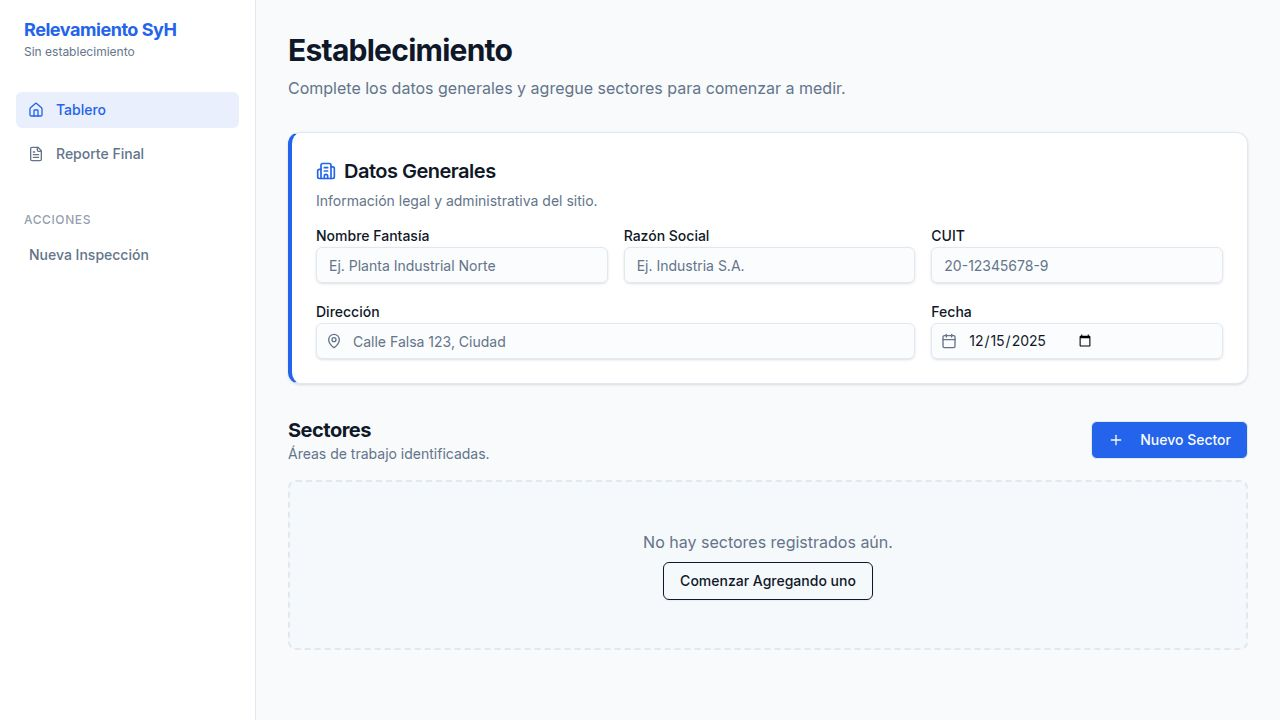
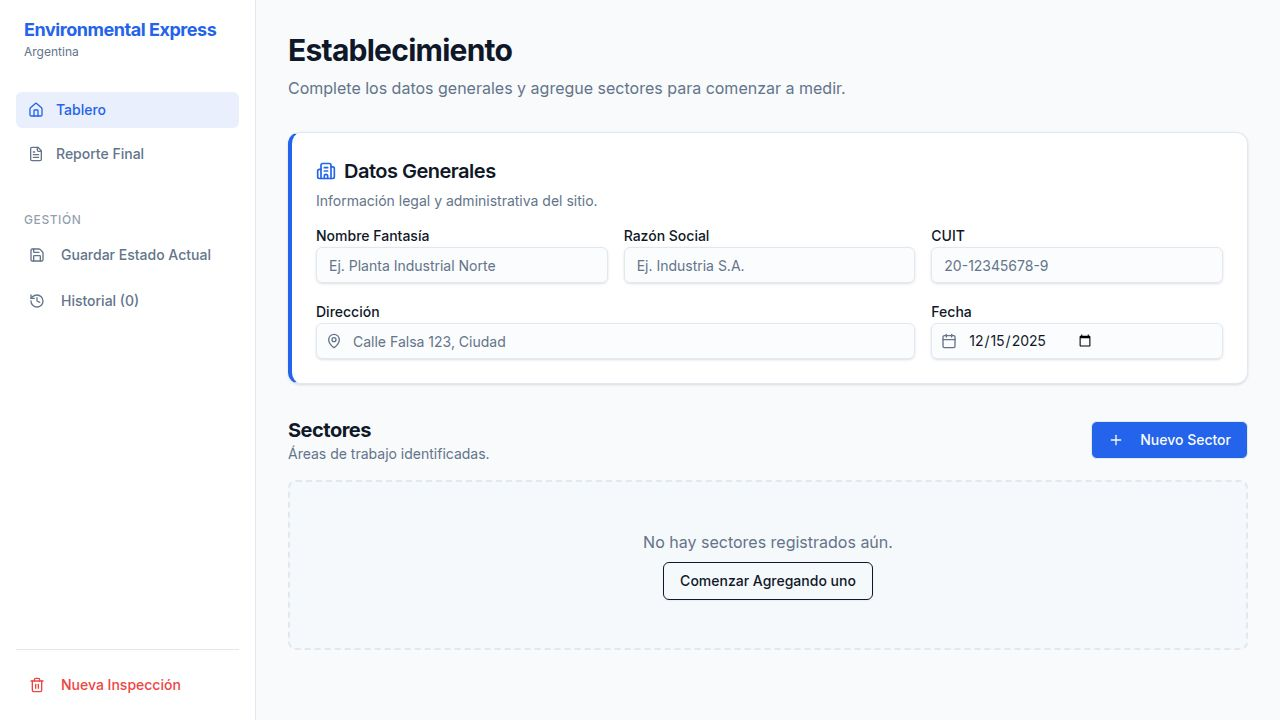
Add functionality to save and load inspection history
Implement persistent storage for inspection data, allowing users to save current states, view historical versions, and restore previous inspections.

Replit-Commit-Author: Agent
Replit-Commit-Session-Id: 186251c5-2431-4825-ab21-660a759b7519
Replit-Commit-Checkpoint-Type: full_checkpoint
Replit-Commit-Event-Id: 81cfa146-f180-4b89-8171-7165e6dcef59
Replit-Commit-Screenshot-Url: https://storage.googleapis.com/screenshot-production-us-central1/a204020a-6f89-41d9-a4e3-866004e7eeac/186251c5-2431-4825-ab21-660a759b7519/CUZe8lA
Replit-Helium-Checkpoint-Created: true

diff --git a/client/src/components/layout.tsx b/client/src/components/layout.tsx
@@ -1,17 +1,48 @@
 import { Link, useLocation } from "wouter";
-import { ClipboardList, Home, FileText, Menu, ChevronRight } from "lucide-react";
+import { ClipboardList, Home, FileText, Menu, ChevronRight, Save, History, Trash2, RotateCcw } from "lucide-react";
 import { Button } from "@/components/ui/button";
 import { Sheet, SheetContent, SheetTrigger } from "@/components/ui/sheet";
+import { Dialog, DialogContent, DialogHeader, DialogTitle, DialogTrigger, DialogDescription } from "@/components/ui/dialog";
+import { ScrollArea } from "@/components/ui/scroll-area";
 import { useState } from "react";
 import { useStore } from "@/lib/store";
+import { format } from "date-fns";
+import { es } from "date-fns/locale";
+import { useToast } from "@/hooks/use-toast";
 
 export function Layout({ children }: { children: React.ReactNode }) {
   const [location] = useLocation();
   const establishment = useStore((state) => state.establishment);
+  const history = useStore((state) => state.history);
+  const saveInspection = useStore((state) => state.saveInspection);
+  const loadInspection = useStore((state) => state.loadInspection);
+  const deleteInspection = useStore((state) => state.deleteInspection);
+  
   const [open, setOpen] = useState(false);
+  const [historyOpen, setHistoryOpen] = useState(false);
+  const { toast } = useToast();
+
+  const handleSave = () => {
+    saveInspection();
+    toast({
+      title: "Inspección Guardada",
+      description: "Se ha guardado una copia en el historial local.",
+    });
+  };
+
+  const handleLoad = (id: string) => {
+    if (confirm("¿Cargar esta inspección reemplazará los datos actuales. ¿Continuar?")) {
+      loadInspection(id);
+      setHistoryOpen(false);
+      toast({
+        title: "Inspección Cargada",
+        description: "Los datos históricos han sido restaurados.",
+      });
+    }
+  };
 
   const NavContent = () => (
-    <nav className="flex flex-col gap-2 p-4">
+    <nav className="flex flex-col gap-2 p-4 h-full">
       <div className="mb-6 px-2">
         <h2 className="text-lg font-bold tracking-tight text-primary">Environmental Express</h2>
         <p className="text-xs text-muted-foreground truncate">
@@ -34,16 +65,73 @@ export function Layout({ children }: { children: React.ReactNode }) {
       </Link>
 
       <div className="mt-8 px-2 text-xs font-medium text-muted-foreground/70 uppercase tracking-wider">
-        Acciones
+        Gestión
       </div>
-      <Button variant="ghost" className="justify-start px-3 text-muted-foreground" onClick={() => {
-        if(confirm('¿Borrar todos los datos y empezar de cero?')) {
-          useStore.getState().resetStore();
-          setOpen(false);
-        }
-      }}>
-        Nueva Inspección
+
+      <Button variant="ghost" className="justify-start px-3 text-muted-foreground hover:text-primary" onClick={handleSave}>
+        <Save className="mr-2 h-4 w-4" />
+        Guardar Estado Actual
       </Button>
+
+      <Dialog open={historyOpen} onOpenChange={setHistoryOpen}>
+        <DialogTrigger asChild>
+          <Button variant="ghost" className="justify-start px-3 text-muted-foreground hover:text-primary">
+            <History className="mr-2 h-4 w-4" />
+            Historial ({history.length})
+          </Button>
+        </DialogTrigger>
+        <DialogContent className="max-w-md">
+          <DialogHeader>
+            <DialogTitle>Historial de Inspecciones</DialogTitle>
+            <DialogDescription>
+              Versiones guardadas anteriormente. Cargar una versión reemplazará los datos actuales.
+            </DialogDescription>
+          </DialogHeader>
+          <ScrollArea className="h-[300px] pr-4">
+            <div className="space-y-4">
+              {history.length === 0 ? (
+                <p className="text-center text-sm text-muted-foreground py-8">No hay inspecciones guardadas.</p>
+              ) : (
+                history.map((item) => (
+                  <div key={item.id} className="flex items-center justify-between p-3 border rounded-lg bg-muted/20">
+                    <div className="space-y-1">
+                      <p className="font-medium text-sm">
+                        {item.establishment.name || "Sin nombre"}
+                      </p>
+                      <p className="text-xs text-muted-foreground">
+                        {format(new Date(item.savedAt), "d 'de' MMMM, yyyy - HH:mm", { locale: es })}
+                      </p>
+                      <p className="text-xs text-muted-foreground">
+                        {item.sectors.length} sectores
+                      </p>
+                    </div>
+                    <div className="flex items-center gap-1">
+                      <Button size="icon" variant="ghost" className="h-8 w-8 text-blue-600 hover:text-blue-700 hover:bg-blue-50" onClick={() => handleLoad(item.id)} title="Cargar">
+                        <RotateCcw className="h-4 w-4" />
+                      </Button>
+                      <Button size="icon" variant="ghost" className="h-8 w-8 text-red-500 hover:text-red-700 hover:bg-red-50" onClick={() => deleteInspection(item.id)} title="Eliminar">
+                        <Trash2 className="h-4 w-4" />
+                      </Button>
+                    </div>
+                  </div>
+                ))
+              )}
+            </div>
+          </ScrollArea>
+        </DialogContent>
+      </Dialog>
+
+      <div className="mt-auto pt-4 border-t">
+         <Button variant="ghost" className="w-full justify-start px-3 text-destructive hover:text-destructive hover:bg-destructive/10" onClick={() => {
+          if(confirm('¿Borrar todos los datos actuales y empezar de cero?')) {
+            useStore.getState().resetStore();
+            setOpen(false);
+          }
+        }}>
+          <Trash2 className="mr-2 h-4 w-4" />
+          Nueva Inspección
+        </Button>
+      </div>
     </nav>
   );
 
@@ -53,7 +141,7 @@ export function Layout({ children }: { children: React.ReactNode }) {
       <div className="md:hidden flex items-center justify-between p-4 border-b bg-card sticky top-0 z-50 print:hidden">
         <div className="flex items-center gap-2">
            <div className="h-8 w-8 rounded bg-primary flex items-center justify-center text-primary-foreground font-bold">
-             SyH
+             EE
            </div>
            <span className="font-semibold text-sm truncate max-w-[200px]">
              {establishment.name || "Nueva Inspección"}

diff --git a/client/src/lib/store.ts b/client/src/lib/store.ts
@@ -1,11 +1,12 @@
 import { create } from 'zustand';
 import { persist, createJSONStorage } from 'zustand/middleware';
-import { Establishment, Sector, Measurement, MeasurementPoint, MeasurementType } from './types';
+import { Establishment, Sector, Measurement, MeasurementPoint, MeasurementType, Inspection } from './types';
 import { v4 as uuidv4 } from 'uuid';
 
 interface AppState {
   establishment: Establishment;
   sectors: Sector[];
+  history: Inspection[];
   
   // Actions
   updateEstablishment: (data: Partial<Establishment>) => void;
@@ -21,6 +22,10 @@ interface AppState {
   addPoint: (sectorId: string, measurementId: string, pointData?: Partial<MeasurementPoint>) => void;
   updatePoint: (sectorId: string, measurementId: string, pointId: string, data: Partial<MeasurementPoint>) => void;
   deletePoint: (sectorId: string, measurementId: string, pointId: string) => void;
+  
+  saveInspection: () => void;
+  loadInspection: (id: string) => void;
+  deleteInspection: (id: string) => void;
   
   resetStore: () => void;
 }
@@ -40,6 +45,7 @@ export const useStore = create<AppState>()(
     (set) => ({
       establishment: initialEstablishment,
       sectors: [],
+      history: [],
 
       updateEstablishment: (data) => 
         set((state) => ({ establishment: { ...state.establishment, ...data } })),
@@ -168,6 +174,34 @@ export const useStore = create<AppState>()(
               })
             };
           })
+        })),
+
+      saveInspection: () =>
+        set((state) => ({
+          history: [
+            {
+              id: uuidv4(),
+              savedAt: new Date().toISOString(),
+              establishment: JSON.parse(JSON.stringify(state.establishment)),
+              sectors: JSON.parse(JSON.stringify(state.sectors))
+            },
+            ...state.history
+          ]
+        })),
+
+      loadInspection: (id) =>
+        set((state) => {
+          const inspection = state.history.find((i) => i.id === id);
+          if (!inspection) return state;
+          return {
+            establishment: JSON.parse(JSON.stringify(inspection.establishment)),
+            sectors: JSON.parse(JSON.stringify(inspection.sectors))
+          };
+        }),
+
+      deleteInspection: (id) =>
+        set((state) => ({
+          history: state.history.filter((i) => i.id !== id)
         })),
 
       resetStore: () => set({ establishment: initialEstablishment, sectors: [] }),

diff --git a/client/src/lib/types.ts b/client/src/lib/types.ts
@@ -57,3 +57,10 @@ export interface Measurement {
     reference?: string;
   };
 }
+
+export interface Inspection {
+  id: string;
+  savedAt: string;
+  establishment: Establishment;
+  sectors: Sector[];
+}
